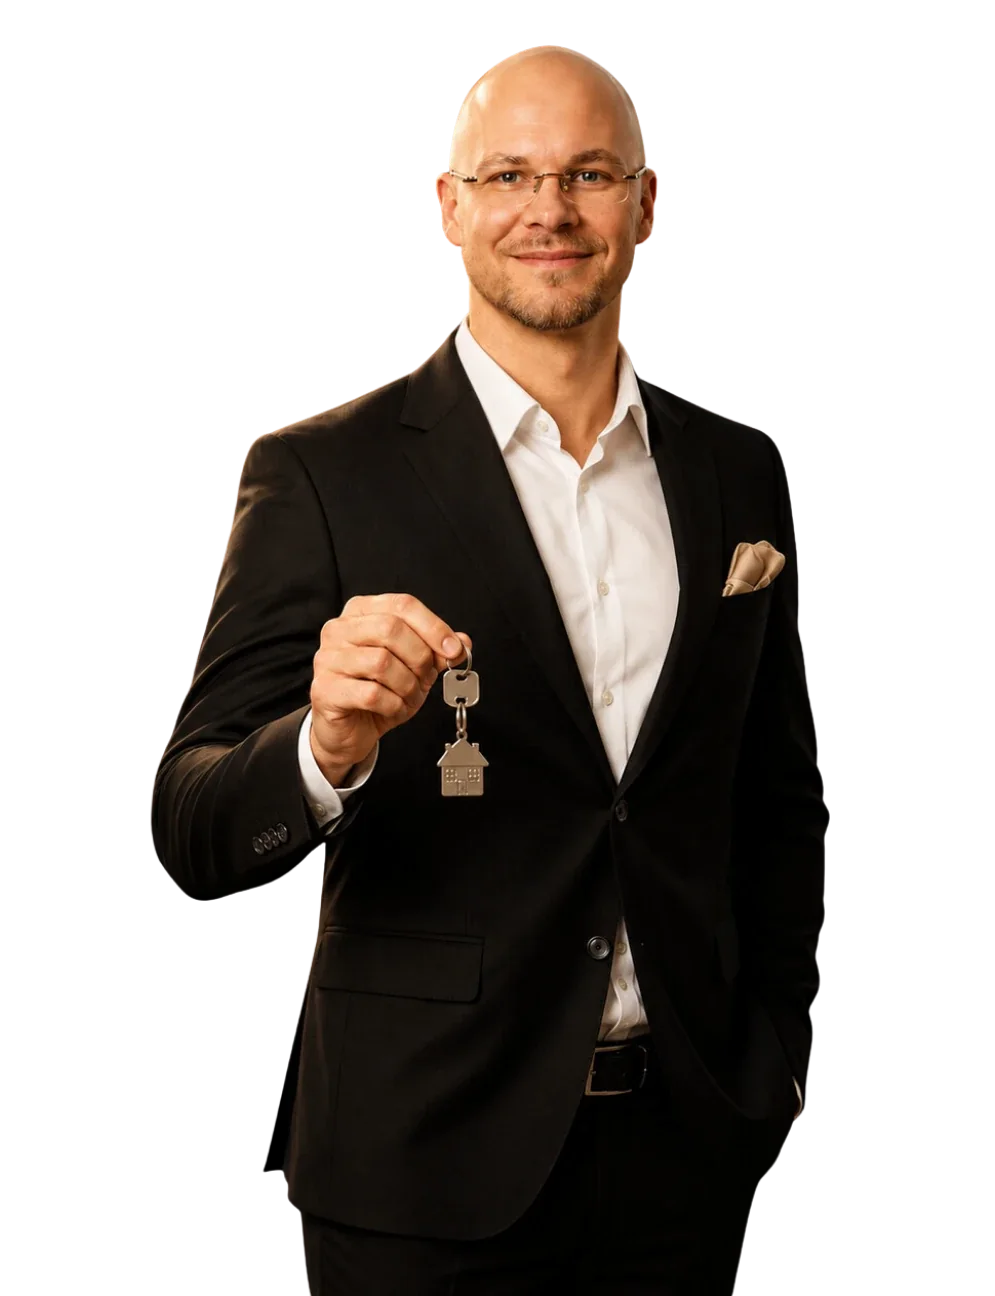
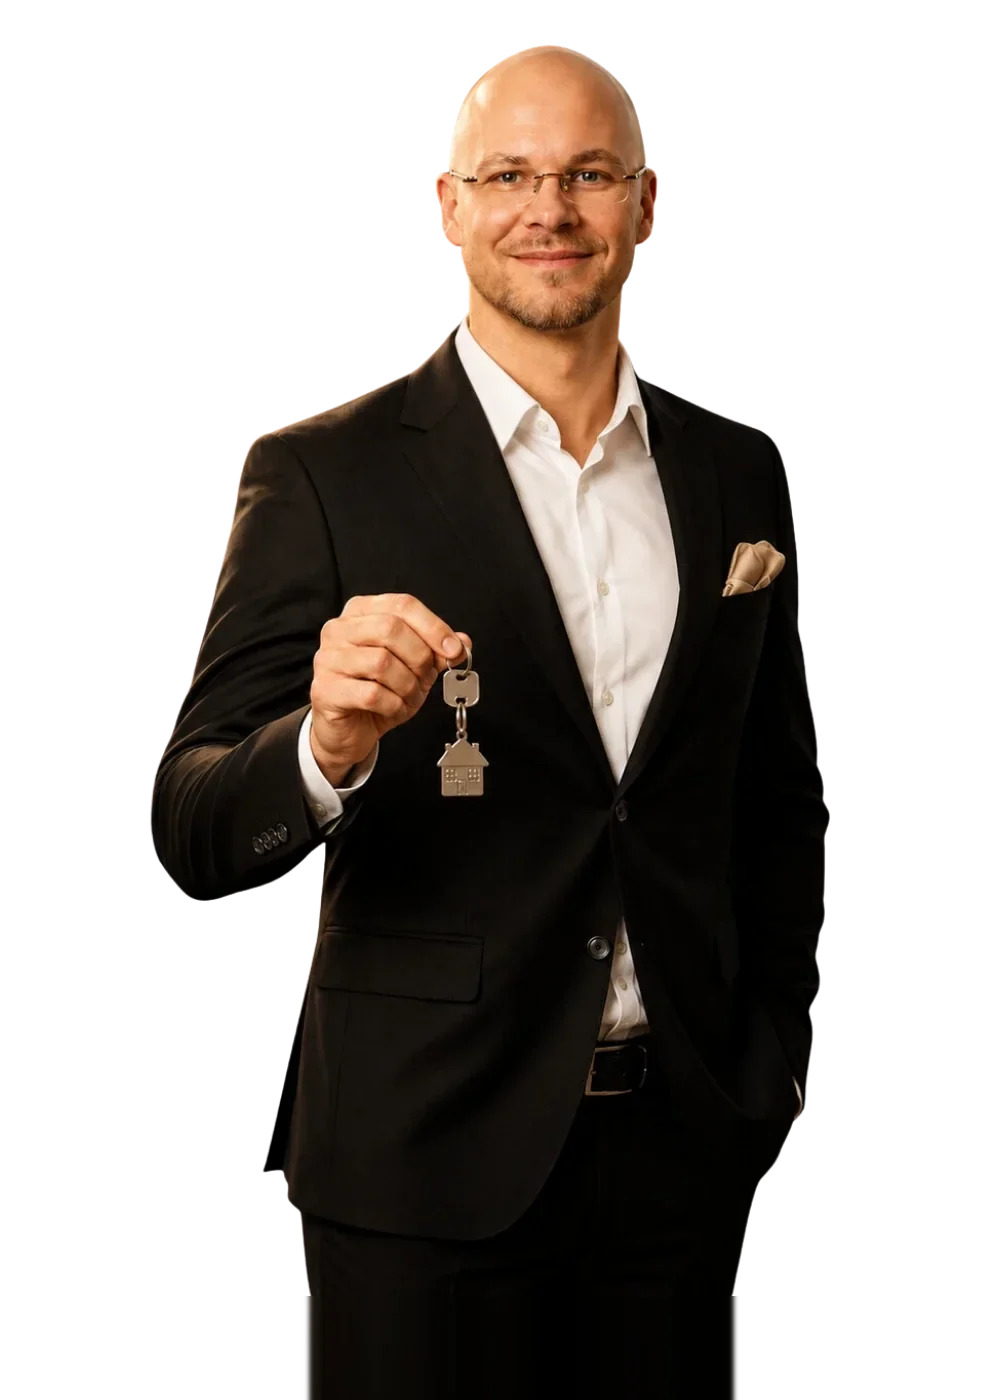
Hero portraits: extend trousers downward and fade out smoothly (phone); desktop layout unchanged
Claude-Session: https://claude.ai/code/session_015wcwscw3SeVyh6NP6weuPp

Changed region(s): [[0.1246, 0.0309, 0.8412, 1.0], [0.592, 0.6481, 0.6543, 0.8642]]

diff --git a/style.css b/style.css
@@ -229,13 +229,13 @@ html[data-theme="light"] .hero-photo img.logo-dark{ display:block; }
   .hero-photo img{
     position:absolute; bottom:0; width:auto; max-width:none;
     height:var(--ph);
-    right:calc(55.6vw - var(--ph) * 0.65);
+    right:calc(55.6vw - var(--ph) * 0.6014);
     filter:drop-shadow(0 14px 24px rgba(0,0,0,.4));
-    /* the photo ends at the thighs: let it fade out softly instead of showing a hard cut next to the button */
-    -webkit-mask-image:linear-gradient(to bottom, #000 calc(100% - 46px), transparent calc(100% - 6px));
-            mask-image:linear-gradient(to bottom, #000 calc(100% - 46px), transparent calc(100% - 6px));
+    /* the cut-out was extended downwards (trousers) and fades out smoothly: no hard edge next to the button */
+    -webkit-mask-image:linear-gradient(to bottom, #000 86%, rgba(0,0,0,.55) 94%, transparent 99.5%);
+            mask-image:linear-gradient(to bottom, #000 86%, rgba(0,0,0,.55) 94%, transparent 99.5%);
   }
-  .hero-photo img.logo-dark{ right:calc(55.6vw - var(--ph) * 0.65 + var(--ph) * 0.01); }   /* black-suit photo is cropped slightly differently */
+  .hero-photo img.logo-dark{ right:calc(55.6vw - var(--ph) * 0.5914); }   /* black-suit photo is cropped slightly differently */
 
   .trust-badges{
     grid-column:1 / -1; grid-row:5; position:relative; z-index:2;
@@ -1415,3 +1415,6 @@ html[data-theme="light"] .cc-reject, html[data-theme="light"] .cc-save{ color:va
 html[data-theme="light"] .cc-reject:hover{ background:rgba(13,21,34,.06); color:var(--navy); }
 @media (min-width:640px){ .cc-actions{ grid-template-columns:auto auto auto; justify-content:start; } .cc-link{ grid-column:auto; padding:0 8px; } .cc-save{ grid-column:auto; } }
 @media (prefers-reduced-motion: reduce){ .cc{ transition:opacity .2s; transform:none; } }
+
+/* Desktop: the extra 'leg' pixels of the portraits hang below the hero and are clipped — layout unchanged */
+@media (min-width:981px){ .hero-photo img{ margin-bottom:-10.45%; } }

diff --git a/index.html b/index.html
@@ -88,8 +88,8 @@
       </div>
     </div>
     <div class="hero-photo">
-      <img src="assets/hero-blauer-modus-blauer-anzug.webp" alt="Jim-Rico Krüger, Immobilienberater in Berlin" width="995" height="1296" class="logo-light">
-      <img src="assets/hero-heller-modus-schwarzer-anzug.webp" alt="Jim-Rico Krüger, Immobilienberater in Berlin" width="995" height="1296" class="logo-dark">
+      <img src="assets/hero-blauer-modus-blauer-anzug.webp?v=3" alt="Jim-Rico Krüger, Immobilienberater in Berlin" width="995" height="1400" class="logo-light">
+      <img src="assets/hero-heller-modus-schwarzer-anzug.webp?v=3" alt="Jim-Rico Krüger, Immobilienberater in Berlin" width="995" height="1400" class="logo-dark">
     </div>
     <div class="trust-badges" data-hero-in>
       <div class="badge">
@@ -202,7 +202,7 @@
   <div class="wrap about-grid">
     <div class="about-photo-col">
       <figure class="about-photo about-photo-backdrop reveal-wipe" data-parallax>
-        <img src="assets/jim-about-transparent.webp" alt="Jim-Rico Krüger, geprüfter Immobilienkaufmann IHK" width="995" height="1296" decoding="async">
+        <img src="assets/jim-about-transparent.webp" alt="Jim-Rico Krüger, geprüfter Immobilienkaufmann IHK" width="995" height="1400" decoding="async">
       </figure>
       <blockquote class="about-quote">
         <span class="quote-mark" aria-hidden="true">"</span>
